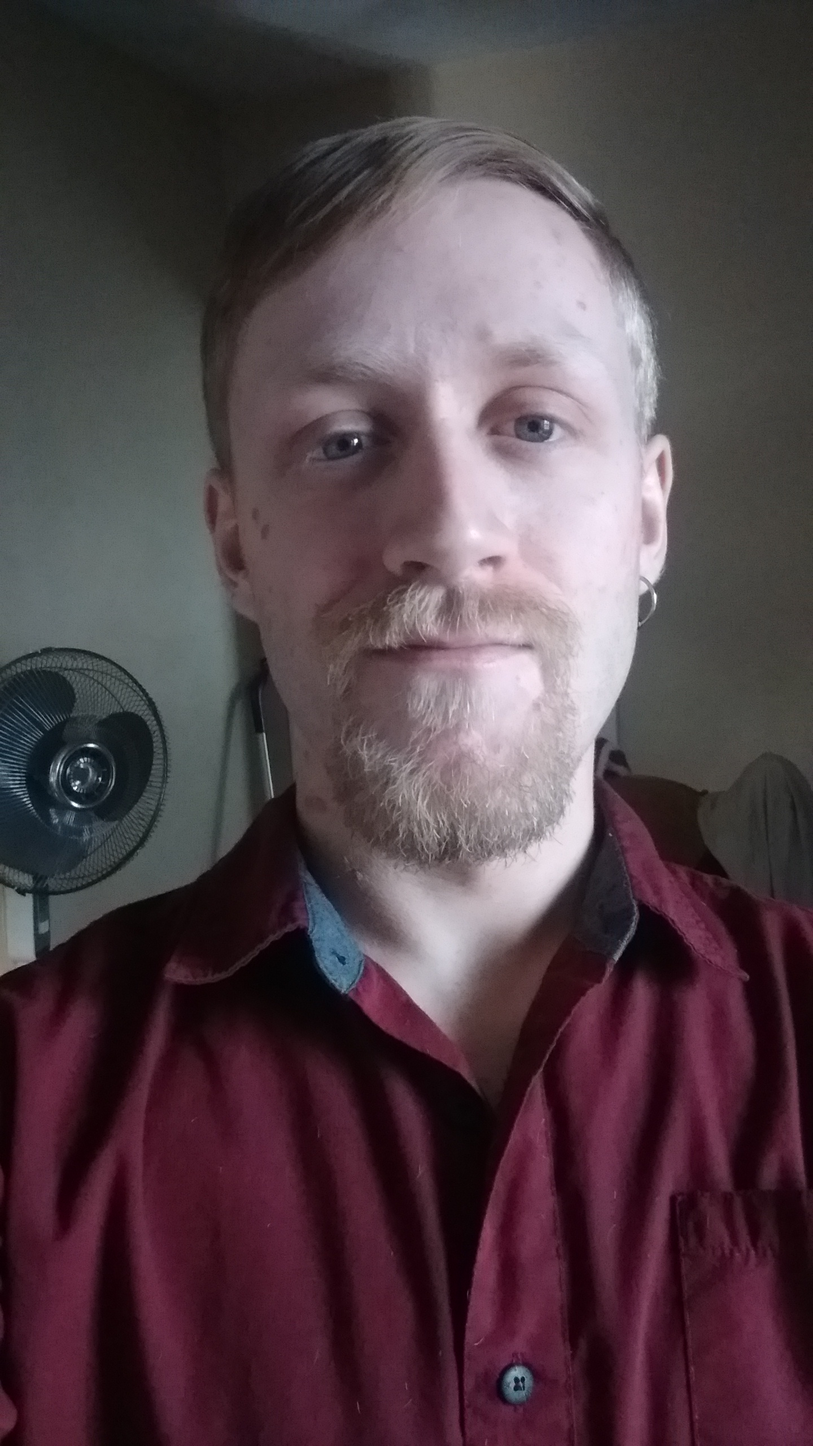
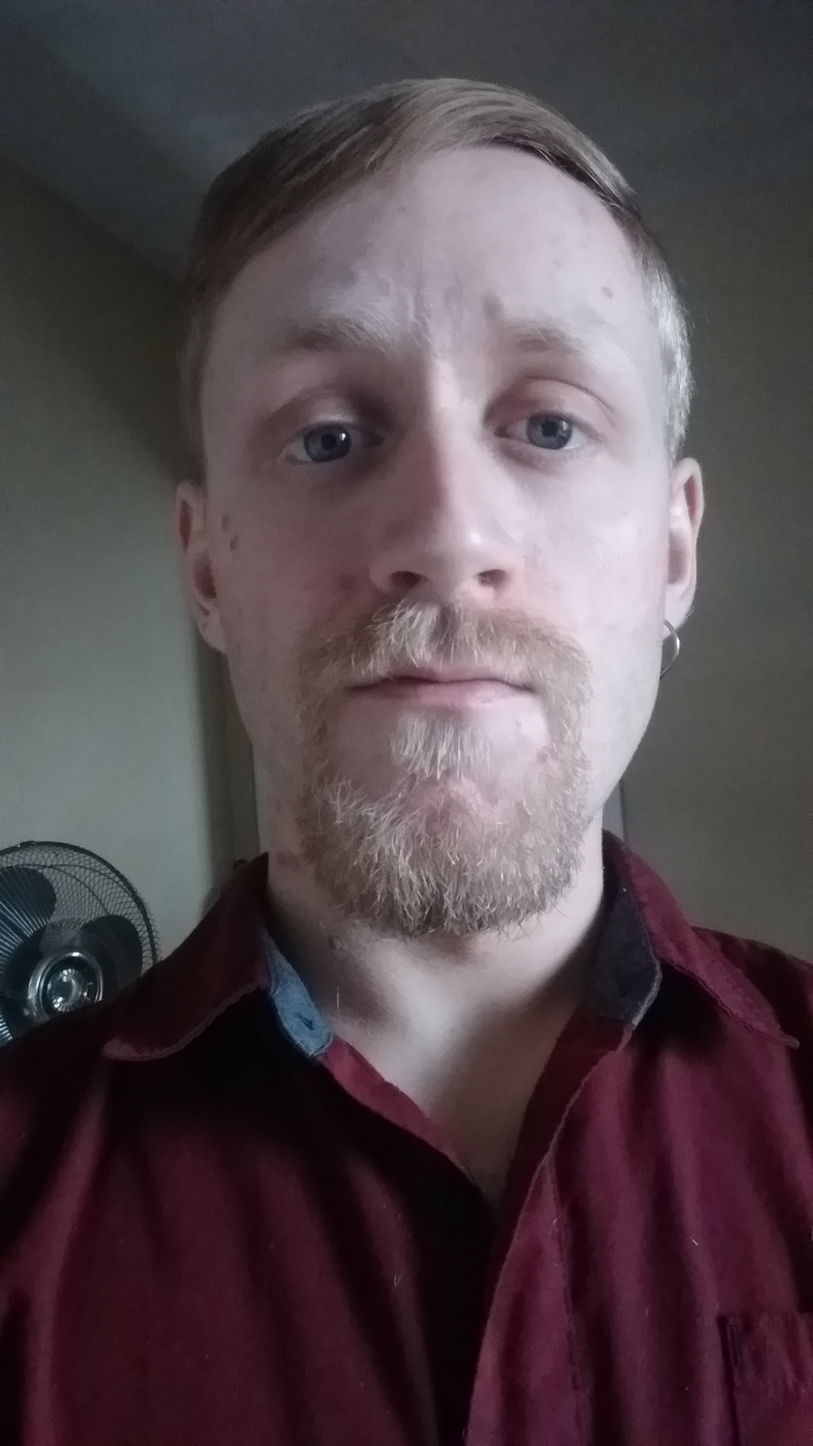
Styles for about page

diff --git a/src/index.css b/src/index.css
@@ -229,5 +229,92 @@ p {
   }
 }
 
-/* Text Content */
+/* General Text Content */
+.main-content {
 
+}
+
+.main-content h1 {
+  text-align: center;
+  margin-bottom: .3em;
+}
+
+/* About Page Content*/
+#about-page-content {
+  margin: 1em 0;
+  text-align: left;
+}
+
+
+#about-page-content-top {
+  display: block;
+  overflow: auto;
+}
+
+#about-page-content-top .content-image {
+  display: inline-block;
+  float: left;
+  text-align: left;
+  margin: 1em;
+}
+
+#about-page-content-top .content-image {
+  display: inline-block;
+}
+
+#about-page-content-top .content-image img {
+  height: 375px;
+  width: 211px;
+}
+
+#about-page-content-top .content-image p {
+  margin-top: -.3em;
+  border-bottom: 1px solid black;
+  border-left: 1px solid black;
+  border-right: 1px solid black;
+  text-align: center;
+  font-size: .9em;
+  font-weight: bold;
+}
+
+#about-page-content-top .content-list {
+  display: inline-block;
+  text-align: left;
+}
+
+#about-page-content-top .content-list h2 {
+  text-decoration: underline;
+}
+
+#about-page-content-top .content-list ul {
+  list-style-type: none;
+  font-size: 18px;
+}
+
+#about-page-content-top .content-list li {
+  margin: .3em;
+}
+
+.list-key {
+  font-weight: bold;
+}
+
+#about-page-content-bottom {
+  display: block;
+  margin: 0 1em .5em 1em;
+}
+
+#about-page-content-bottom p {
+  font-size: 18px;
+}
+
+@media (max-width: 500px) {
+  #about-page-content-top .content-image {
+    display: block;
+    text-align: center;
+  }
+
+  #about-page-content-top .content-list {
+    display: block;
+  }
+}

diff --git a/src/components/About/About.jsx b/src/components/About/About.jsx
@@ -11,8 +11,9 @@ import MainContent from '../MainContent/MainContent';
 import Image from '../MainContent/Image';
 import TextSection from '../MainContent/TextSection';
 import List from '../MainContent/List';
+
 import hill from '../../assets/img/hills-1.jpg';
-import chris from '../../assets/img/chris.jpg';
+import chris from '../../assets/img/chris2.jpg';
 
 const text = {
   paragraphs: [
@@ -30,6 +31,7 @@ const list = {
     "Location": "Providence, Rhode Island",
   }
 };
+
 const About = () =>
   <div id="about-page">
     <Header/>
@@ -38,9 +40,13 @@ const About = () =>
     </Banner>
     <div id="about-page-content">
       <MainContent header="Christopher Ronning">
-        <Image image={ {src: chris, caption: "Hello!"} }/>
-        <TextSection contents={text} />
-        <List contents={list}/>
+        <div id="about-page-content-top">
+          <Image image={ {src: chris, caption: "Hello!"} }/>
+          <List contents={list}/>
+        </div>
+        <div id="about-page-content-bottom">
+          <TextSection contents={text} />
+        </div>
       </MainContent>
     </div>
   </div>

diff --git a/src/components/MainContent/Image.jsx b/src/components/MainContent/Image.jsx
@@ -4,8 +4,8 @@ import React from 'react';
 
 const Image = ({image}) =>
   <div className="content-image">
-    <img src={image.src} />
-    <p>{image.caption}</p>
+      <img src={image.src} />
+      <p>{image.caption}</p>
   </div>
 
 export default Image;
@@ -14,5 +14,5 @@ Image.propTypes = {
   image: React.PropTypes.shape({
     src: React.PropTypes.string.isRequired,
     caption: React.PropTypes.string
-  }).isRequired
+  }).is
 };

diff --git a/src/components/MainContent/List.jsx b/src/components/MainContent/List.jsx
@@ -4,7 +4,7 @@ import React from 'react';
 
 const List = ({contents}) =>
   <div className="content-list">
-    {contents.title ? <h3>{contents.title}</h3> : ""}
+    {contents.title ? <h2>{contents.title}</h2> : ""}
     <ul>
       {Object.keys(contents.items).map((key, index) =>
         <li key={index}><span className="list-key">{key}</span>: {contents.items[key]}</li>)}

diff --git a/src/components/MainContent/MainContent.jsx b/src/components/MainContent/MainContent.jsx
@@ -3,7 +3,7 @@
 import React from 'react';
 
 const MainContent = ({header, children}) =>
-  <div id="main-content">
+  <div className="main-content">
     <h1>{header}</h1>
     {children}
   </div>
